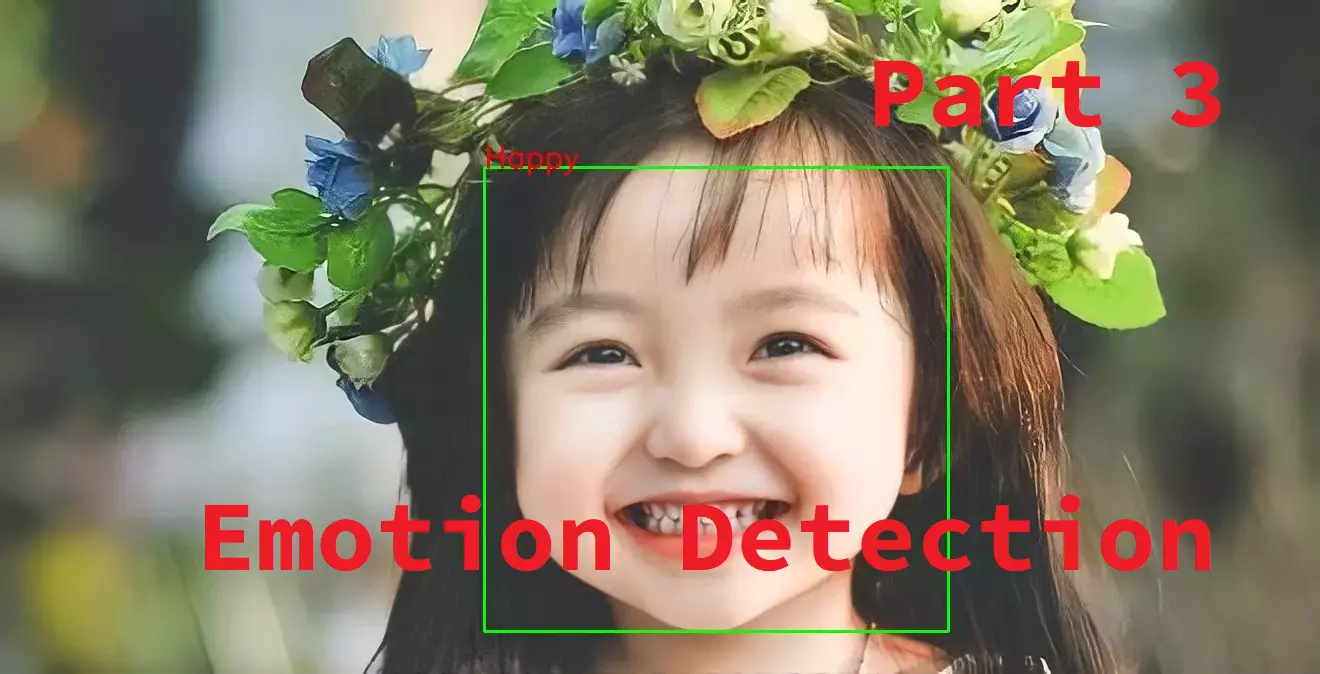
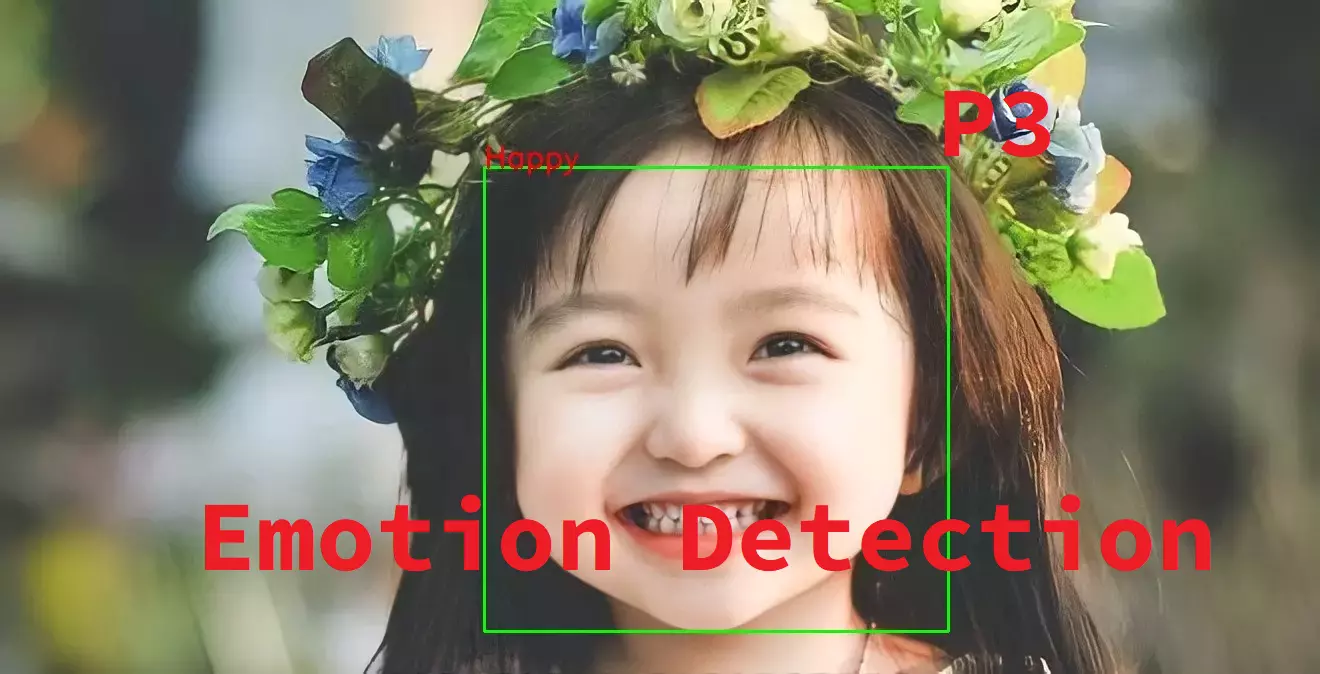
change

Changed region(s): [[0.6523, 0.0623, 0.8386, 0.2493], [0.8697, 0.0935, 0.9318, 0.1869]]

diff --git a/_posts/2022-1-19-emotion-recognition-implementation-traning.md b/_posts/2022-1-19-emotion-recognition-implementation-traning.md
@@ -4,7 +4,7 @@ title:  "Emotion recognition. (Part 3) Implementation Training"
 author: sal
 categories: [ Machine learning ]
 tags: [ Python, Lập trình ]
-image: assets/images/happy-ex.webp
+image: assets/images/emotion-detection/happy-ex-p3.webp
 # rating: 4.5
 comments: false
 ---
